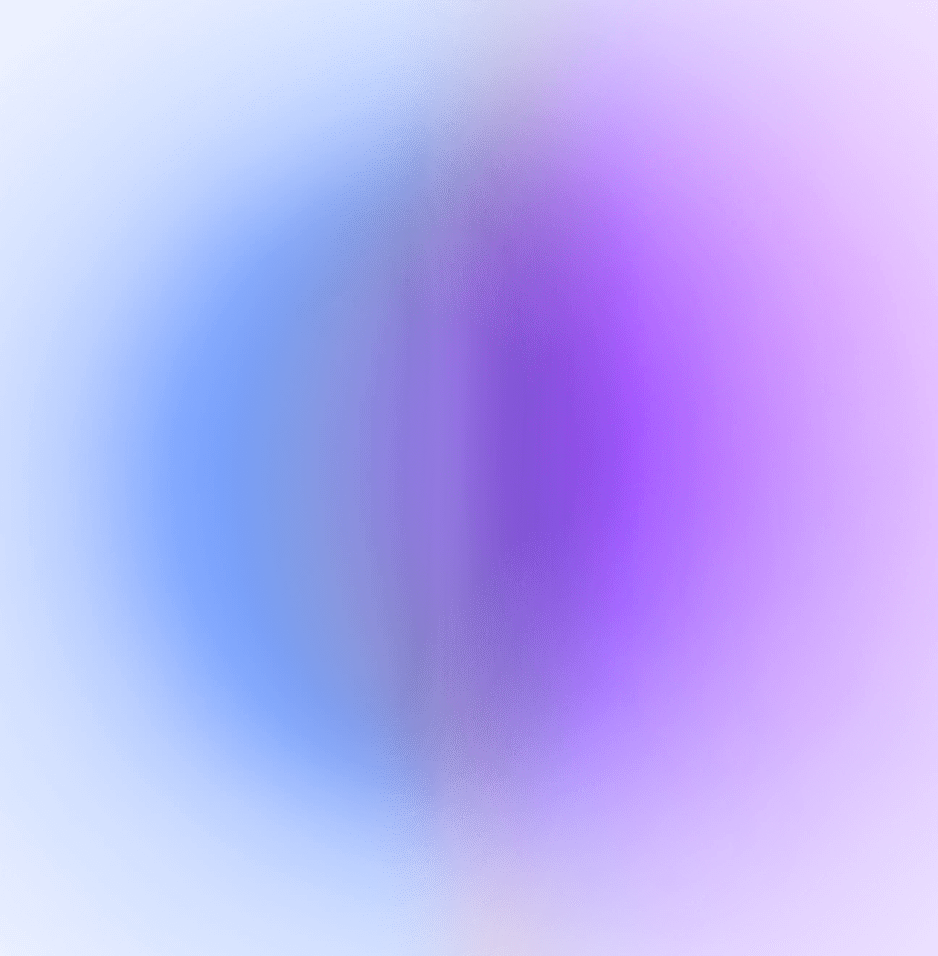
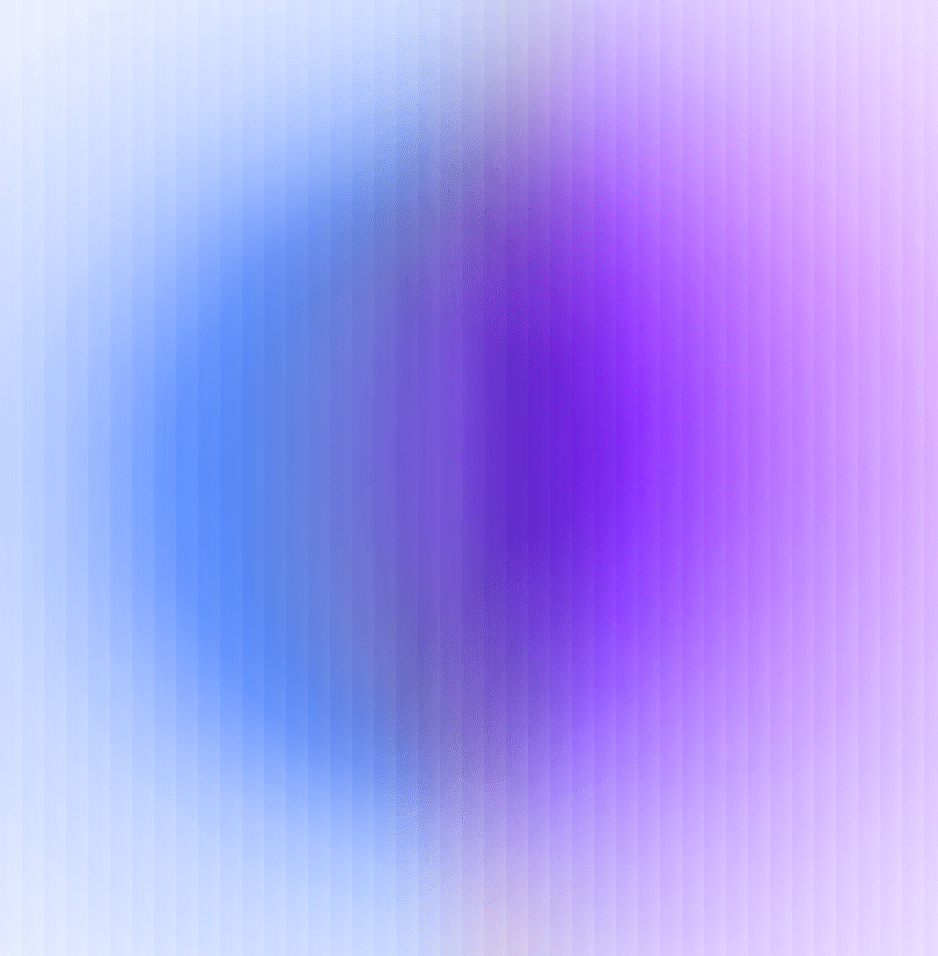
style(modules): apply frosted glassmorphism background to floating cards matching footer card style

diff --git a/components/sections/SpecializedModules.tsx b/components/sections/SpecializedModules.tsx
@@ -176,25 +176,25 @@ export function SpecializedModules() {
                   />
                 </div>
 
-                {/* Floating BOM Recipe Card in Purple Theme */}
-                <div className="relative z-10 w-full max-w-[320px] sm:max-w-[410px] bg-white rounded-2xl sm:rounded-3xl p-3.5 sm:p-6 shadow-[0_25px_50px_-12px_rgba(0,0,0,0.18),0_0_1px_1px_rgba(0,0,0,0.04)] border border-slate-100 space-y-2 sm:space-y-3.5">
-                  <div className="flex items-center justify-between pb-2 border-b border-slate-100 text-[11px] sm:text-xs">
+                {/* Floating BOM Recipe Card in Purple Theme (Footer Glassmorphic Style) */}
+                <div className="relative z-10 w-full max-w-[320px] sm:max-w-[410px] bg-white/28 hover:bg-white/38 backdrop-blur-2xl backdrop-saturate-150 rounded-2xl sm:rounded-3xl p-3.5 sm:p-6 shadow-[0_30px_70px_-15px_rgba(0,0,0,0.25),0_0_1px_1px_rgba(255,255,255,0.6),inset_0_1px_1.5px_rgba(255,255,255,0.9)] border border-white/80 transition-all duration-300 space-y-2 sm:space-y-3.5">
+                  <div className="flex items-center justify-between pb-2 border-b border-white/40 text-[11px] sm:text-xs">
                     <span className="font-bold text-brand-700 flex items-center gap-1.5">
                       <Cpu className="w-3.5 h-3.5 sm:w-4 sm:h-4 text-brand-600" />
                       BOM RECIPE BUILDER
                     </span>
-                    <span className="bg-brand-50 text-brand-700 text-[10px] sm:text-[11px] font-bold px-2 py-0.5 rounded-full border border-brand-200/60">
+                    <span className="bg-brand-50/90 text-brand-700 text-[10px] sm:text-[11px] font-bold px-2 py-0.5 rounded-full border border-brand-200/60 shadow-xs">
                       Batch #802
                     </span>
                   </div>
 
                   <div className="space-y-1.5 sm:space-y-2 text-[11px] sm:text-xs">
-                    <div className="flex items-center justify-between bg-slate-50 px-2.5 py-1.5 sm:px-3 sm:py-2 rounded-xl">
-                      <span className="text-slate-700 font-medium">Flour (ময়দা) 50kg</span>
+                    <div className="flex items-center justify-between bg-white/50 backdrop-blur-md px-2.5 py-1.5 sm:px-3 sm:py-2 rounded-xl border border-white/40 shadow-xs">
+                      <span className="text-slate-800 font-medium">Flour (ময়দা) 50kg</span>
                       <span className="text-rose-600 font-bold font-mono">-50.00</span>
                     </div>
-                    <div className="flex items-center justify-between bg-slate-50 px-2.5 py-1.5 sm:px-3 sm:py-2 rounded-xl">
-                      <span className="text-slate-700 font-medium">Sugar (চিনি) 10kg</span>
+                    <div className="flex items-center justify-between bg-white/50 backdrop-blur-md px-2.5 py-1.5 sm:px-3 sm:py-2 rounded-xl border border-white/40 shadow-xs">
+                      <span className="text-slate-800 font-medium">Sugar (চিনি) 10kg</span>
                       <span className="text-rose-600 font-bold font-mono">-10.00</span>
                     </div>
                   </div>
@@ -228,25 +228,25 @@ export function SpecializedModules() {
                   />
                 </div>
 
-                {/* Floating Repair Ticket Card in Purple Theme */}
-                <div className="relative z-10 w-full max-w-[320px] sm:max-w-[410px] bg-white rounded-2xl sm:rounded-3xl p-3.5 sm:p-6 shadow-[0_25px_50px_-12px_rgba(0,0,0,0.18),0_0_1px_1px_rgba(0,0,0,0.04)] border border-slate-100 space-y-2 sm:space-y-3.5">
-                  <div className="flex items-center justify-between pb-2 border-b border-slate-100 text-[11px] sm:text-xs">
+                {/* Floating Repair Ticket Card in Purple Theme (Footer Glassmorphic Style) */}
+                <div className="relative z-10 w-full max-w-[320px] sm:max-w-[410px] bg-white/28 hover:bg-white/38 backdrop-blur-2xl backdrop-saturate-150 rounded-2xl sm:rounded-3xl p-3.5 sm:p-6 shadow-[0_30px_70px_-15px_rgba(0,0,0,0.25),0_0_1px_1px_rgba(255,255,255,0.6),inset_0_1px_1.5px_rgba(255,255,255,0.9)] border border-white/80 transition-all duration-300 space-y-2 sm:space-y-3.5">
+                  <div className="flex items-center justify-between pb-2 border-b border-white/40 text-[11px] sm:text-xs">
                     <span className="font-bold text-brand-700 flex items-center gap-1.5">
                       <Wrench className="w-3.5 h-3.5 sm:w-4 sm:h-4 text-brand-600" />
                       JOB TICKET #TK-4409
                     </span>
-                    <span className="bg-brand-50 text-brand-700 text-[10px] sm:text-[11px] font-bold px-2 py-0.5 rounded-full flex items-center gap-1 border border-brand-200/60">
+                    <span className="bg-brand-50/90 text-brand-700 text-[10px] sm:text-[11px] font-bold px-2 py-0.5 rounded-full flex items-center gap-1 border border-brand-200/60 shadow-xs">
                       <Clock className="w-3 h-3" />
                       In Progress
                     </span>
                   </div>
 
-                  <div className="bg-slate-50 p-2.5 sm:p-3.5 rounded-xl border border-slate-200/60 text-[11px] sm:text-xs">
+                  <div className="bg-white/50 backdrop-blur-md p-2.5 sm:p-3.5 rounded-xl border border-white/40 shadow-xs text-[11px] sm:text-xs">
                     <div className="flex items-center justify-between font-bold text-slate-800">
                       <span>iPhone 13 Display Replacement</span>
                       <span className="text-brand-700 font-mono">৳ 12,500</span>
                     </div>
-                    <div className="text-[10px] sm:text-[11px] text-slate-400 mt-1">Technician: Tanvir Alam &middot; Counter 2</div>
+                    <div className="text-[10px] sm:text-[11px] text-slate-600 mt-1 font-medium">Technician: Tanvir Alam &middot; Counter 2</div>
                   </div>
 
                   <div className="bg-brand-600 text-white rounded-xl p-2.5 sm:p-3 text-[11px] sm:text-xs flex items-center justify-between shadow-xs">
@@ -318,28 +318,28 @@ export function SpecializedModules() {
                   />
                 </div>
 
-                {/* Floating 2-Way Sync Card in Purple Theme */}
-                <div className="relative z-10 w-full max-w-[320px] sm:max-w-[410px] bg-white rounded-2xl sm:rounded-3xl p-3.5 sm:p-6 shadow-[0_25px_50px_-12px_rgba(0,0,0,0.18),0_0_1px_1px_rgba(0,0,0,0.04)] border border-slate-100 space-y-2 sm:space-y-3.5">
-                  <div className="flex items-center justify-between pb-2 border-b border-slate-100 text-[11px] sm:text-xs">
+                {/* Floating 2-Way Sync Card in Purple Theme (Footer Glassmorphic Style) */}
+                <div className="relative z-10 w-full max-w-[320px] sm:max-w-[410px] bg-white/28 hover:bg-white/38 backdrop-blur-2xl backdrop-saturate-150 rounded-2xl sm:rounded-3xl p-3.5 sm:p-6 shadow-[0_30px_70px_-15px_rgba(0,0,0,0.25),0_0_1px_1px_rgba(255,255,255,0.6),inset_0_1px_1.5px_rgba(255,255,255,0.9)] border border-white/80 transition-all duration-300 space-y-2 sm:space-y-3.5">
+                  <div className="flex items-center justify-between pb-2 border-b border-white/40 text-[11px] sm:text-xs">
                     <span className="font-bold text-brand-700 flex items-center gap-1.5">
                       <Globe className="w-3.5 h-3.5 sm:w-4 sm:h-4 text-brand-600" />
                       WOOCOMMERCE LIVE SYNC
                     </span>
-                    <span className="bg-brand-50 text-brand-700 text-[10px] sm:text-[11px] font-bold px-2 py-0.5 rounded-full flex items-center gap-1 border border-brand-200/60">
+                    <span className="bg-brand-50/90 text-brand-700 text-[10px] sm:text-[11px] font-bold px-2 py-0.5 rounded-full flex items-center gap-1 border border-brand-200/60 shadow-xs">
                       <span className="w-1.5 h-1.5 rounded-full bg-emerald-500 animate-pulse" />
                       2-Way Active
                     </span>
                   </div>
 
                   <div className="grid grid-cols-2 gap-2 text-[11px] sm:text-xs">
-                    <div className="bg-slate-50 p-2 sm:p-3 rounded-xl border border-slate-200/60 text-center">
+                    <div className="bg-white/50 backdrop-blur-md p-2 sm:p-3 rounded-xl border border-white/40 shadow-xs text-center">
                       <Store className="w-3.5 h-3.5 sm:w-4 sm:h-4 text-brand-600 mx-auto mb-1" />
-                      <div className="text-[9px] sm:text-[10px] text-slate-400 font-semibold">OUTLET POS</div>
+                      <div className="text-[9px] sm:text-[10px] text-slate-600 font-semibold">OUTLET POS</div>
                       <div className="font-bold text-navy-900 mt-0.5">18 Pcs Stock</div>
                     </div>
-                    <div className="bg-slate-50 p-2 sm:p-3 rounded-xl border border-slate-200/60 text-center">
+                    <div className="bg-white/50 backdrop-blur-md p-2 sm:p-3 rounded-xl border border-white/40 shadow-xs text-center">
                       <Globe className="w-3.5 h-3.5 sm:w-4 sm:h-4 text-brand-600 mx-auto mb-1" />
-                      <div className="text-[9px] sm:text-[10px] text-slate-400 font-semibold">ONLINE STORE</div>
+                      <div className="text-[9px] sm:text-[10px] text-slate-600 font-semibold">ONLINE STORE</div>
                       <div className="font-bold text-navy-900 mt-0.5">18 Pcs Stock</div>
                     </div>
                   </div>
